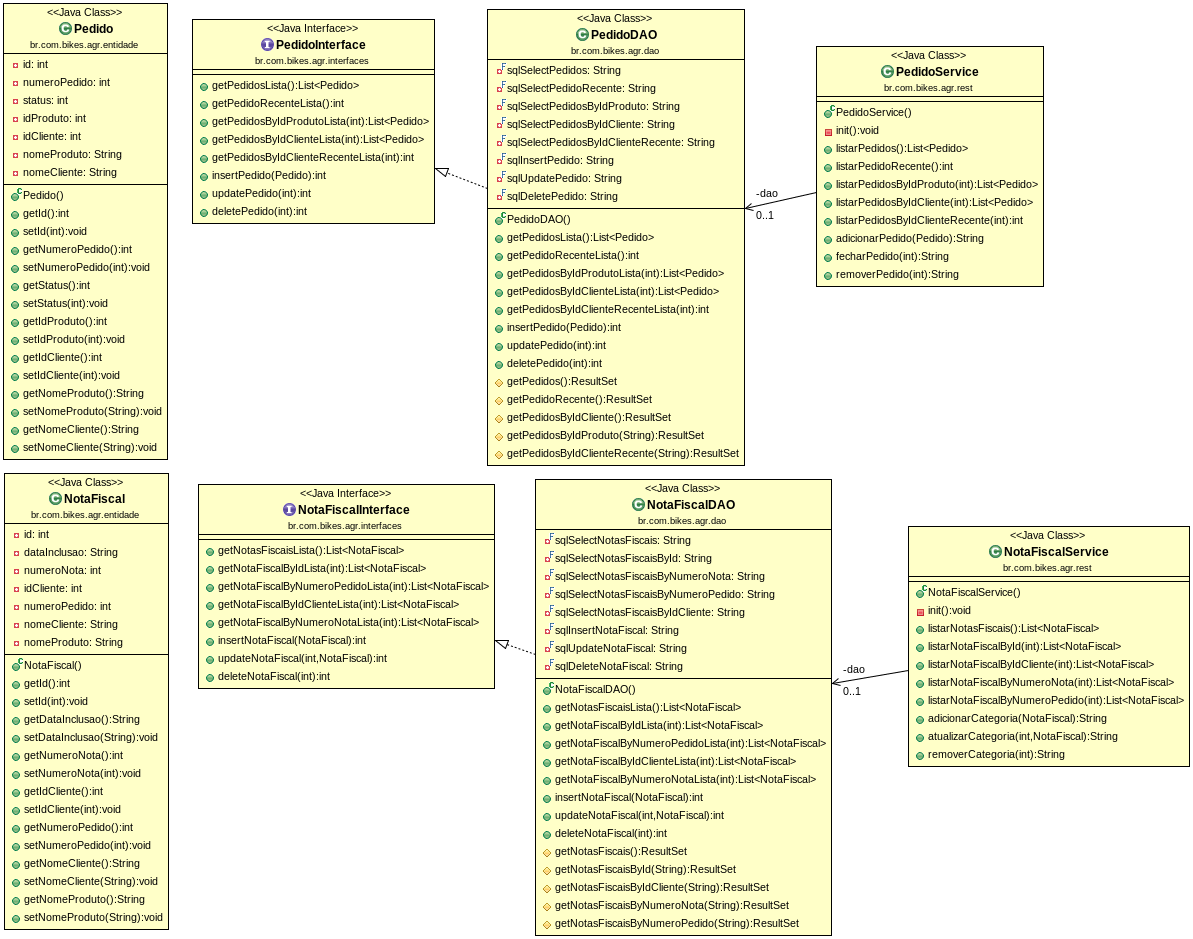
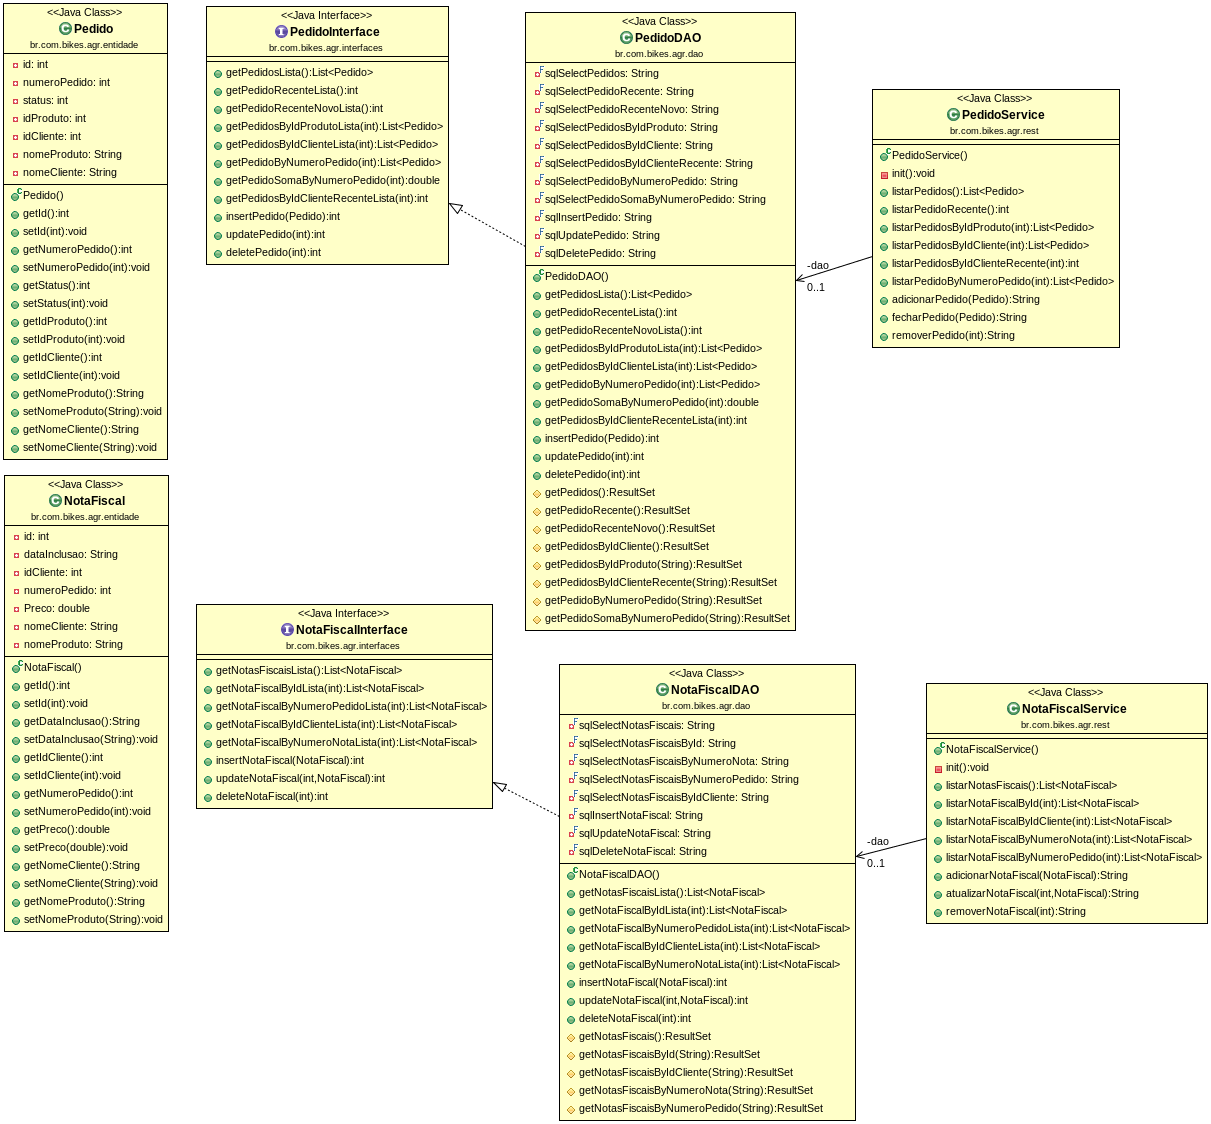
Pedido busca atualizada

diff --git a/agr-bikes-api/src/main/java/br/com/bikes/agr/dao/PedidoDAO.java b/agr-bikes-api/src/main/java/br/com/bikes/agr/dao/PedidoDAO.java
@@ -18,7 +18,7 @@ public class PedidoDAO extends ConnectionPool implements PedidoInterface {
 	private final String sqlSelectPedidosByIdProduto = "select id_pedido, numero_pedido as numPedido, status_pedido as status, pdo.id_cliente, pdo.id_produto, pdt.descricao as nomeProduto, cli.nome as nomeCliente from pedido as pdo, produto as pdt, cliente as cli where pdo.id_produto = pdt.id_produto and pdo.id_cliente = cli.id_cliente where pdo.id_produto = ?";
 	private final String sqlSelectPedidosByIdCliente = "select id_pedido, numero_pedido as numPedido, status_pedido as status, pdo.id_cliente, pdo.id_produto, pdt.descricao as nomeProduto, cli.nome as nomeCliente from pedido as pdo, produto as pdt, cliente as cli where pdo.id_produto = pdt.id_produto and pdo.id_cliente = cli.id_cliente where pdo.id_cliente = ?";
 	private final String sqlSelectPedidosByIdClienteRecente = "select id_pedido, numero_pedido as numPedido, status_pedido as status, pdo.id_cliente, pdo.id_produto, pdt.descricao as nomeProduto, cli.nome as nomeCliente from pedido as pdo, produto as pdt, cliente as cli where pdo.id_produto = pdt.id_produto and pdo.id_cliente = cli.id_cliente and pdo.id_cliente = ? and status_pedido = 0 order by numPedido desc limit 1";
-	private final String sqlSelectPedidoByNumeroPedido = "select id_pedido, numero_pedido as numPedido, status_pedido as status, pdo.id_cliente, pdo.id_produto, pdt.descricao as nomeProduto, cli.nome as nomeCliente from pedido as pdo, produto as pdt, cliente as cli where pdo.id_produto = pdt.id_produto and pdo.id_cliente = cli.id_cliente where numPedido = ?";
+	private final String sqlSelectPedidoByNumeroPedido = "select count(*) as quantidade, numero_pedido, status_pedido, pdt.descricao as nomeProduto, cli.nome as nomeCliente from pedido as pdo, produto as pdt, cliente as cli where pdo.id_produto = pdt.id_produto and pdo.id_cliente = cli.id_cliente and numero_pedido = ? group by pdo.id_produto, pdo.id_cliente, pdo.numero_pedido, pdo.status_pedido";	
 	private final String sqlSelectPedidoSomaByNumeroPedido = "select sum(prc.valor) as soma from pedido as pdd, produto as pdt, preco as prc where pdd.numero_pedido = ? and pdd.status_pedido = 1 and pdd.id_produto = pdt.id_produto group by prc.valor";
 	private final String sqlInsertPedido = "insert into pedido (numero_pedido, status_pedido, id_produto, id_cliente) values (?, 0, ?, ?)";
 	private final String sqlUpdatePedido = "update pedido set status_pedido = ? where numero_pedido = ?";											
